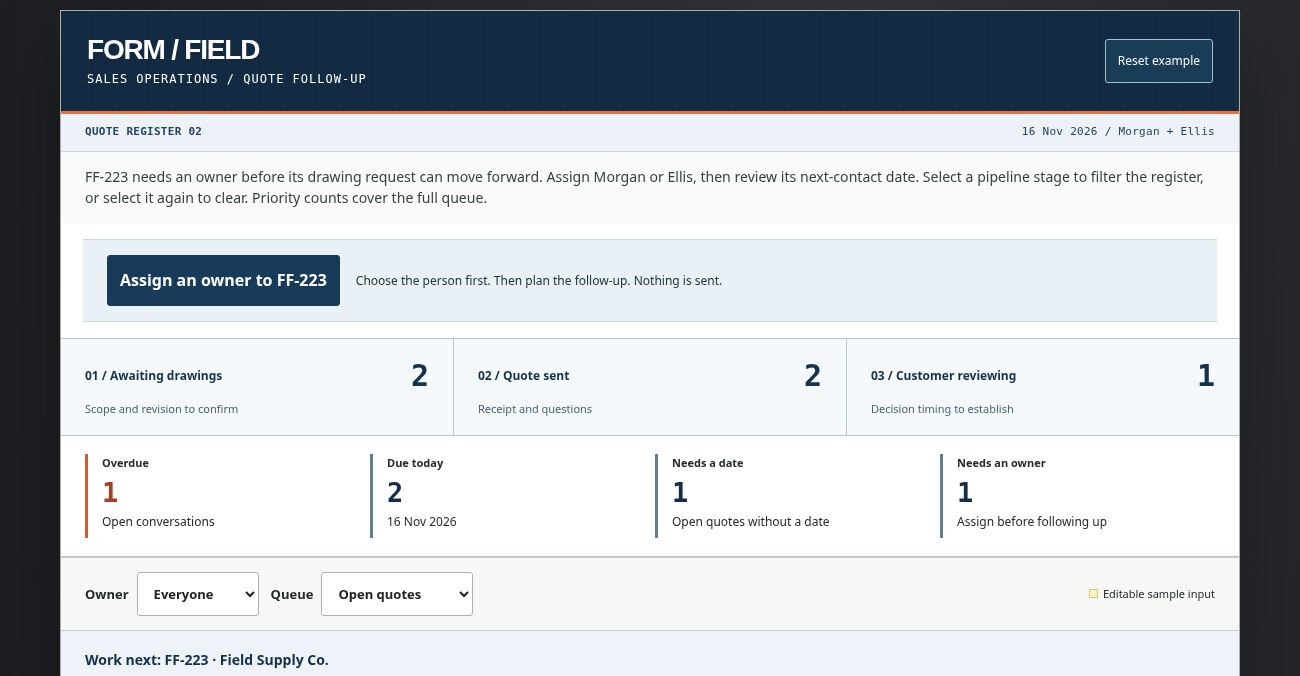
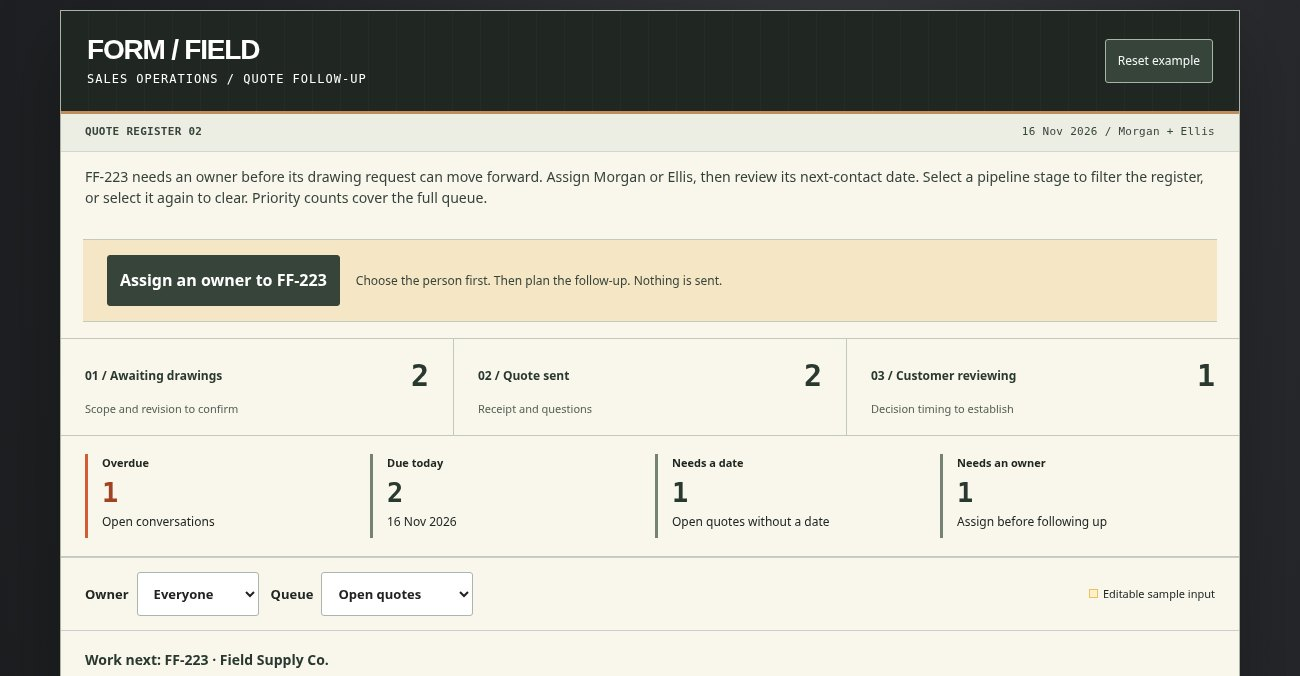
Match the public Form / Field worksheet to its workbook palette

diff --git a/portfolio/projects/customer-follow-up/index.html b/portfolio/projects/customer-follow-up/index.html
@@ -70,9 +70,9 @@ footer{border-top-color:#b79a6240;color:#aaa396;font-size:.72rem;padding-top:20p
 
 
 /* Purpose-built worksheet demonstration. Browser-only, no connected account. */
-main{display:block;max-width:1240px;padding-top:44px}main>section{max-width:none}.project-intro{display:grid;grid-template-columns:1fr 1fr;gap:48px;align-items:end;margin-bottom:35px}.project-intro h1{margin-bottom:12px}.project-intro p{max-width:49ch}.project-intro .note{margin-top:6px}.paired-detail-link{display:inline-flex;min-height:44px;align-items:center;margin-right:16px}.demo-workspace{color:#252a2c;background:#fff;border:1px solid #c7c7bf;border-radius:0;overflow:hidden;box-shadow:0 28px 60px #0005}.demo-workspace *{box-sizing:border-box}.demo-workspace p{color:inherit}.demo-brand{padding:22px 26px;display:flex;justify-content:space-between;gap:20px;align-items:center}.demo-brand h2{margin:0;font:600 28px/1.2 Georgia,serif}.demo-brand p{margin:3px 0 0;font-size:12px}.demo-workspace button,.demo-workspace select{font:inherit;min-height:44px;border:1px solid #a6aaa5;border-radius:3px;background:#fff;color:#222;padding:8px 12px}.demo-workspace button{cursor:pointer}.demo-workspace button:hover{background:#eee}.demo-workspace :focus-visible{outline:3px solid #266dd3;outline-offset:2px}.demo-workspace .demo-controls{display:flex;align-items:center;gap:12px;flex-wrap:wrap;padding:14px 24px;border-block:1px solid #ccc;background:#f7f8f5}.demo-controls label{font-size:13px;font-weight:650;display:flex;align-items:center;gap:8px}.demo-explainer{font-size:13px;line-height:1.5;padding:14px 24px;margin:0;background:#fafafa}.sheet-scroll{overflow:auto;max-width:100%;padding-bottom:2px}.sheet-scroll:focus-visible{outline-offset:-3px}.sheet-grid{width:100%;border-collapse:collapse;font:13px/1.4 Arial,sans-serif;min-width:700px}.sheet-grid th,.sheet-grid td{padding:12px;border:1px solid #dee1db;text-align:left;white-space:nowrap}.sheet-grid thead th{font-weight:700}.sheet-grid .col-letters th{padding:4px 12px;font-size:11px;background:#f2f4f2;color:#68716c;font-weight:400;text-align:center}.sheet-grid th.row-number{background:#f2f4f2;color:#68716c;font-size:11px;text-align:center;width:35px;font-weight:400}.sheet-grid select{max-width:180px;width:100%;font-size:12px}.sheet-tabs{display:flex;gap:20px;align-items:center;padding:13px 24px;background:#f2f4f2;font-size:12px;border-top:1px solid #ccd2ca}.sheet-tabs strong{padding-bottom:5px;border-bottom:3px solid currentColor}.sheet-tabs span{color:#66706a}.demo-summary{padding:20px 24px}.demo-summary h3{margin:0 0 6px;font-size:15px}.demo-summary output{display:block;font-size:30px;font-weight:700;line-height:1.1}.demo-summary p{font-size:12px;margin:6px 0}.demo-feedback{min-height:42px;padding:10px 24px;margin:0;font-size:12px;background:#f5f5f1}.handoff-box{margin:15px 0}.demo-caption{font-size:12px;color:#bbb;margin-top:12px!important}.demo-key{font-size:11px;margin-left:auto}.demo-key b{display:inline-block;width:9px;height:9px;background:#fff0c9;border:1px solid #e6c464;margin-right:5px}.input-cell{background:#fff9e9}.demo-actions{display:flex;gap:12px;align-items:center;flex-wrap:wrap;margin-top:24px}.demo-actions .note{flex:1 1 280px}@media(max-width:760px){main{padding-top:28px}.project-intro{display:block;margin-bottom:24px}.project-intro h1{font-size:2.8rem}.project-intro>div+div{margin-top:17px}.demo-brand{padding:18px 16px;align-items:flex-start}.demo-brand h2{font-size:23px}.demo-brand button{font-size:12px}.demo-controls,.demo-workspace .demo-controls{padding:12px 16px}.demo-explainer,.demo-summary,.demo-feedback{padding-left:16px;padding-right:16px}.sheet-tabs{padding:12px 16px}.demo-key{margin-left:0}.demo-summary output{font-size:25px}.sheet-grid{min-width:675px}.demo-caption{line-height:1.6}}
+main{display:block;max-width:1240px;padding-top:44px}main>section{max-width:none}.project-intro{display:grid;grid-template-columns:1fr 1fr;gap:48px;align-items:end;margin-bottom:35px}.project-intro h1{margin-bottom:12px}.project-intro p{max-width:49ch}.project-intro .note{margin-top:6px}.paired-detail-link{display:inline-flex;min-height:44px;align-items:center;margin-right:16px}.demo-workspace{color:#252a2c;background:#fff;border:1px solid #c7c7bf;border-radius:0;overflow:hidden;box-shadow:0 28px 60px #0005}.demo-workspace *{box-sizing:border-box}.demo-workspace p{color:inherit}.demo-brand{padding:22px 26px;display:flex;justify-content:space-between;gap:20px;align-items:center}.demo-brand h2{margin:0;font:600 28px/1.2 Georgia,serif}.demo-brand p{margin:3px 0 0;font-size:12px}.demo-workspace button,.demo-workspace select{font:inherit;min-height:44px;border:1px solid #a6aaa5;border-radius:3px;background:#fff;color:#222;padding:8px 12px}.demo-workspace button{cursor:pointer}.demo-workspace button:hover{background:#eee}.demo-workspace :focus-visible{outline:3px solid #755234;outline-offset:2px}.demo-workspace .demo-controls{display:flex;align-items:center;gap:12px;flex-wrap:wrap;padding:14px 24px;border-block:1px solid #ccc;background:#f7f8f5}.demo-controls label{font-size:13px;font-weight:650;display:flex;align-items:center;gap:8px}.demo-explainer{font-size:13px;line-height:1.5;padding:14px 24px;margin:0;background:#fafafa}.sheet-scroll{overflow:auto;max-width:100%;padding-bottom:2px}.sheet-scroll:focus-visible{outline-offset:-3px}.sheet-grid{width:100%;border-collapse:collapse;font:13px/1.4 Arial,sans-serif;min-width:700px}.sheet-grid th,.sheet-grid td{padding:12px;border:1px solid #dee1db;text-align:left;white-space:nowrap}.sheet-grid thead th{font-weight:700}.sheet-grid .col-letters th{padding:4px 12px;font-size:11px;background:#f2f4f2;color:#68716c;font-weight:400;text-align:center}.sheet-grid th.row-number{background:#f2f4f2;color:#68716c;font-size:11px;text-align:center;width:35px;font-weight:400}.sheet-grid select{max-width:180px;width:100%;font-size:12px}.sheet-tabs{display:flex;gap:20px;align-items:center;padding:13px 24px;background:#f2f4f2;font-size:12px;border-top:1px solid #ccd2ca}.sheet-tabs strong{padding-bottom:5px;border-bottom:3px solid currentColor}.sheet-tabs span{color:#66706a}.demo-summary{padding:20px 24px}.demo-summary h3{margin:0 0 6px;font-size:15px}.demo-summary output{display:block;font-size:30px;font-weight:700;line-height:1.1}.demo-summary p{font-size:12px;margin:6px 0}.demo-feedback{min-height:42px;padding:10px 24px;margin:0;font-size:12px;background:#f5f5f1}.handoff-box{margin:15px 0}.demo-caption{font-size:12px;color:#bbb;margin-top:12px!important}.demo-key{font-size:11px;margin-left:auto}.demo-key b{display:inline-block;width:9px;height:9px;background:#fff0c9;border:1px solid #e6c464;margin-right:5px}.input-cell{background:#fff9e9}.demo-actions{display:flex;gap:12px;align-items:center;flex-wrap:wrap;margin-top:24px}.demo-actions .note{flex:1 1 280px}@media(max-width:760px){main{padding-top:28px}.project-intro{display:block;margin-bottom:24px}.project-intro h1{font-size:2.8rem}.project-intro>div+div{margin-top:17px}.demo-brand{padding:18px 16px;align-items:flex-start}.demo-brand h2{font-size:23px}.demo-brand button{font-size:12px}.demo-controls,.demo-workspace .demo-controls{padding:12px 16px}.demo-explainer,.demo-summary,.demo-feedback{padding-left:16px;padding-right:16px}.sheet-tabs{padding:12px 16px}.demo-key{margin-left:0}.demo-summary output{font-size:25px}.sheet-grid{min-width:675px}.demo-caption{line-height:1.6}}
 
-.quote-desk .demo-brand{background:#132b42;color:#fff;border-left:9px solid #ea713f}.quote-desk .demo-brand h2{font-family:Arial,sans-serif;font-weight:800;letter-spacing:-1px}.quote-desk .demo-brand p{font-family:monospace;letter-spacing:1px}.quote-desk .demo-summary{display:grid;grid-template-columns:repeat(3,1fr);gap:20px;background:#eaf1f7;border-bottom:1px solid #bbc9d7}.quote-desk .demo-summary>div{border-left:3px solid #647d94;padding-left:14px}.quote-desk .demo-summary output{font-family:monospace;color:#152f4b}.quote-desk .demo-summary>div:first-child{border-color:#d25c35}.quote-desk .demo-summary>div:first-child output{color:#a24225}.quote-desk .sheet-grid thead tr:last-child{background:#dbe6ef;color:#15314c}.quote-desk .sheet-grid{font-family:'Courier New',monospace;font-size:12px}.quote-desk .sheet-grid tbody tr.needs-action td:first-of-type{border-left:4px solid #dc7545}.quote-desk .sheet-tabs{color:#1b486f}.quote-desk .timeline-note{display:flex;gap:24px;padding:20px 24px;align-items:center;border-top:1px solid #c6d0d9;background:#f0f5fa}.quote-desk .timeline-note strong{color:#123a5c;font:700 13px monospace}.quote-desk .timeline-note p{font-size:13px;margin:0}.quote-desk .due-late{color:#9a3c22;font-weight:700}.quote-desk .due-today{color:#1b567e;font-weight:700}@media(max-width:480px){.quote-desk .demo-summary{gap:8px;padding:16px 12px}.quote-desk .demo-summary h3{font-size:12px}.quote-desk .demo-summary>div{padding-left:8px}.quote-desk .demo-summary p{font-size:10px}.quote-desk .timeline-note{display:block;padding:16px}.quote-desk .timeline-note strong{display:block;margin-bottom:6px}}
+.quote-desk .demo-brand{background:#202723;color:#fff;border-left:9px solid #c18c5b}.quote-desk .demo-brand h2{font-family:Arial,sans-serif;font-weight:800;letter-spacing:-1px}.quote-desk .demo-brand p{font-family:monospace;letter-spacing:1px}.quote-desk .demo-summary{display:grid;grid-template-columns:repeat(3,1fr);gap:20px;background:#eceee4;border-bottom:1px solid #c4caba}.quote-desk .demo-summary>div{border-left:3px solid #758374;padding-left:14px}.quote-desk .demo-summary output{font-family:monospace;color:#29392f}.quote-desk .demo-summary>div:first-child{border-color:#d25c35}.quote-desk .demo-summary>div:first-child output{color:#a24225}.quote-desk .sheet-grid thead tr:last-child{background:#e0e5dc;color:#29392f}.quote-desk .sheet-grid{font-family:'Courier New',monospace;font-size:12px}.quote-desk .sheet-grid tbody tr.needs-action td:first-of-type{border-left:4px solid #c18c5b}.quote-desk .sheet-tabs{color:#37443a}.quote-desk .timeline-note{display:flex;gap:24px;padding:20px 24px;align-items:center;border-top:1px solid #c4caba;background:#f9f6ec}.quote-desk .timeline-note strong{color:#37443a;font:700 13px monospace}.quote-desk .timeline-note p{font-size:13px;margin:0}.quote-desk .due-late{color:#9a3c22;font-weight:700}.quote-desk .due-today{color:#475b4b;font-weight:700}@media(max-width:480px){.quote-desk .demo-summary{gap:8px;padding:16px 12px}.quote-desk .demo-summary h3{font-size:12px}.quote-desk .demo-summary>div{padding-left:8px}.quote-desk .demo-summary p{font-size:10px}.quote-desk .timeline-note{display:block;padding:16px}.quote-desk .timeline-note strong{display:block;margin-bottom:6px}}
 
 /* V43 follow-on: decisions from editable sample records, not a live workbook. */
 .demo-workspace{color-scheme:light}
@@ -86,7 +86,7 @@ main{display:block;max-width:1240px;padding-top:44px}main>section{max-width:none
 .demo-workspace .queue-next p{margin:3px 0 0;font-size:13px;line-height:1.5}
 .demo-workspace .queue-next strong{font-size:14px}
 .demo-workspace .status-blocked{background:#fff0e6;color:#8b3824}
-.demo-workspace .row-link{border:0;background:transparent;color:#204a68;padding:4px 0;text-decoration:underline;text-underline-offset:3px;font-weight:700;min-height:44px;text-align:left}
+.demo-workspace .row-link{border:0;background:transparent;color:#475b4b;padding:4px 0;text-decoration:underline;text-underline-offset:3px;font-weight:700;min-height:44px;text-align:left}
 .demo-workspace .rule-details{padding:13px 24px;border-top:1px solid #ccd2ca;background:#f6f7f4;font-size:12px}
 .demo-workspace .rule-details summary{cursor:pointer;font-weight:700;min-height:30px;display:list-item}
 .demo-workspace .rule-details p{margin:10px 0 2px;max-width:85ch}
@@ -96,14 +96,14 @@ main{display:block;max-width:1240px;padding-top:44px}main>section{max-width:none
 .quote-desk .demo-summary{grid-template-columns:repeat(4,minmax(0,1fr))}
 .quote-desk .sheet-grid{min-width:1040px}.quote-desk .sheet-grid input[type=date]{width:150px;font:12px Arial,sans-serif}.quote-desk .sheet-grid select{max-width:180px;font:12px Arial,sans-serif}
 .quote-desk .sheet-grid th:nth-child(2){min-width:170px}.quote-desk .sheet-grid td:nth-child(3){min-width:170px;white-space:normal}
-.quote-desk .sheet-grid tr.suppressed{background:#f1f2f2;color:#545c62}.quote-desk .due-missing{color:#8b3824;font-weight:700}
-.quote-desk .queue-next{background:#edf3f8;border-color:#c6d0d9}.quote-desk .queue-next strong{color:#15314c}
+.quote-desk .sheet-grid tr.suppressed{background:#f1f2f2;color:#545c54}.quote-desk .due-missing{color:#8b3824;font-weight:700}
+.quote-desk .queue-next{background:#f9f6ec;border-color:#c4caba}.quote-desk .queue-next strong{color:#29392f}
 .quote-desk .demo-summary h3{font-size:13px}
 @media(max-width:480px){.quote-desk .demo-summary{grid-template-columns:repeat(2,minmax(0,1fr));gap:18px}.quote-desk .demo-summary p{font-size:11px}}
 
 /* Project scope: short, evidence-based exhibit notes. */
 main>.project-scope{grid-column:1/-1;max-width:none;width:100%;border-top:1px solid #b79a6266;padding-top:30px;display:grid;grid-template-columns:repeat(3,minmax(0,1fr));gap:clamp(20px,3vw,36px);align-items:start}.project-scope article{min-width:0}.project-scope h2{font:600 1.2rem/1.3 Georgia,serif;color:var(--ink);margin:0 0 12px}.project-scope p,.project-scope li{font-size:.92rem;line-height:1.7;color:var(--muted)}.project-scope p{margin:0}.project-scope ul{margin:0;padding-left:1.1rem}.project-scope li+li{margin-top:5px}@media(max-width:760px){main>.project-scope{grid-template-columns:1fr;gap:25px;padding-top:25px}}
-</style><style id="worksheet-readable-instructions">main>.demo-workspace>p.demo-explainer,main>.demo-workspace>p.demo-feedback,main>.workbook>p.demo-feedback{color:#35423b;max-width:none;margin:0;font-size:.88rem;line-height:1.55}#book-title,#demo-title{scroll-margin-top:24px}</style><style>.quote-start{margin:16px 22px;padding:14px 0;border-block:1px solid #94a6a9;display:flex;gap:18px;align-items:center;color:#20373d}.quote-start button{min-height:44px;padding:12px;border:1px solid #20373d;background:#e9f1ee;color:#20373d;font-weight:700;cursor:pointer}.quote-start span{font:14px/1.5 monospace}@media(max-width:650px){.quote-start{display:grid;margin:14px}.quote-start button{justify-self:start}}</style><style>.summary-return{display:inline-flex;align-items:center;min-height:44px;text-decoration:underline;text-underline-offset:4px;color:inherit;margin:8px 20px}#worksheet-summary{scroll-margin-top:24px}</style><style id="v62-workflow-finish">
+</style><style id="worksheet-readable-instructions">main>.demo-workspace>p.demo-explainer,main>.demo-workspace>p.demo-feedback,main>.workbook>p.demo-feedback{color:#35423b;max-width:none;margin:0;font-size:.88rem;line-height:1.55}#book-title,#demo-title{scroll-margin-top:24px}</style><style>.quote-start{margin:16px 22px;padding:14px 0;border-block:1px solid #aab4a6;display:flex;gap:18px;align-items:center;color:#37443a}.quote-start button{min-height:44px;padding:12px;border:1px solid #37443a;background:#eceee4;color:#37443a;font-weight:700;cursor:pointer}.quote-start span{font:14px/1.5 monospace}@media(max-width:650px){.quote-start{display:grid;margin:14px}.quote-start button{justify-self:start}}</style><style>.summary-return{display:inline-flex;align-items:center;min-height:44px;text-decoration:underline;text-underline-offset:4px;color:inherit;margin:8px 20px}#worksheet-summary{scroll-margin-top:24px}</style><style id="v62-workflow-finish">
 .demo-workspace,.workbook{box-shadow:0 28px 70px #0004;border-color:#acafa9}
 .demo-brand,.book-head{min-height:100px}.demo-brand p,.book-head p{line-height:1.6}
 .demo-workspace button,.workbook button{transition:background .12s,border-color .12s}
@@ -133,14 +133,23 @@ main>.project-scope{grid-column:1/-1;max-width:none;width:100%;border-top:1px so
 .demo-workspace .sheet-grid td[colspan]{grid-column:1/-1}
 }
 
-.quote-desk .demo-brand{background:#132b42;border-left:0;border-bottom:3px solid #ea713f;background-image:linear-gradient(90deg,transparent 96%,#ffffff06 96%);background-size:28px 28px}.quote-desk .demo-brand h2{letter-spacing:-1.2px}.quote-desk .workspace-context{background:#ecf2f7;color:#25445e}
-.quote-desk .pipeline{display:grid;grid-template-columns:repeat(3,minmax(0,1fr));gap:1px;background:#b5c5d2;border-block:1px solid #b5c5d2}.quote-desk .pipeline button{display:grid;grid-template-columns:1fr auto;align-items:center;gap:8px;border:0;border-radius:0;background:#f6f9fb;padding:19px 24px;text-align:left;color:#15334c;min-width:0}.quote-desk .pipeline button span{font:650 12px/1.45 system-ui,sans-serif}.quote-desk .pipeline button output{font:600 30px ui-monospace,monospace}.quote-desk .pipeline button[aria-pressed=true]{background:#173b58;color:#fff;box-shadow:inset 0 -4px #ee8d63}.quote-desk .pipeline button:hover{background:#dae7f1;color:#18384f}.quote-desk .pipeline button small{grid-column:1/-1;font:11px/1.4 system-ui,sans-serif;opacity:.8}.quote-desk .demo-summary{background:#fff;gap:10px;padding-block:18px}.quote-desk .demo-summary output{font-size:27px}.quote-desk .demo-summary h3{font-size:11px}.quote-desk .quote-start{border-block:1px solid #cad7e0;background:#eaf1f6;padding:15px 24px;display:flex;align-items:center;gap:16px}.quote-desk .quote-start button{background:#173b58;color:white;border-color:#173b58}.quote-desk .quote-start span{font:12px/1.5 system-ui,sans-serif}.quote-desk .timeline-note{background:#e8eff5}.quote-desk .sheet-grid tbody td{line-height:1.55}
-@media(max-width:650px){.quote-desk .pipeline{grid-template-columns:1fr}.quote-desk .pipeline button{padding:13px 16px;grid-template-columns:1fr auto}.quote-desk .pipeline button small{grid-column:1;grid-row:2}.quote-desk .pipeline button output{grid-column:2;grid-row:1/3;font-size:28px}.quote-desk .demo-summary{grid-template-columns:repeat(2,minmax(0,1fr));gap:18px}.quote-desk .quote-start{display:block;padding:15px 16px}.quote-desk .quote-start button{width:100%;margin-bottom:9px}.quote-desk .quote-start span{display:block}.quote-desk .sheet-scroll{background:#eaf0f4}.quote-desk .sheet-grid tbody tr{border-color:#bdcddb}.quote-desk .sheet-grid tbody th[scope=row]{background:#173b58;color:#fff}.quote-desk .sheet-grid tbody th[scope=row] .cell-note{color:#e8f0f5}.quote-desk .sheet-grid td:nth-child(3){grid-column:1/-1}.quote-desk .sheet-grid td:nth-child(6){grid-column:1/-1}.quote-desk .sheet-grid tbody tr.suppressed{opacity:.8}}
-.quote-desk .demo-brand #reset-demo{color:#f5f8fb;border-color:#a4bdd0;background:#193c57}.quote-desk .demo-brand #reset-demo:hover{color:#fff;background:#29506d}.quote-desk .demo-brand #reset-demo:focus-visible{outline:3px solid #fff;outline-offset:3px}.tool-boundary{font-size:12px!important;line-height:1.6;color:#d2c9b7!important;margin:0 0 12px!important}.tool-boundary+section{margin-top:0}</style></head><body>
+.quote-desk .demo-brand{background:#202723;border-left:0;border-bottom:3px solid #c18c5b;background-image:linear-gradient(90deg,transparent 96%,#ffffff06 96%);background-size:28px 28px}.quote-desk .demo-brand h2{letter-spacing:-1.2px}.quote-desk .workspace-context{background:#eceee4;color:#37443a}
+.quote-desk .pipeline{display:grid;grid-template-columns:repeat(3,minmax(0,1fr));gap:1px;background:#c4caba;border-block:1px solid #c4caba}.quote-desk .pipeline button{display:grid;grid-template-columns:1fr auto;align-items:center;gap:8px;border:0;border-radius:0;background:#f9f6ec;padding:19px 24px;text-align:left;color:#29392f;min-width:0}.quote-desk .pipeline button span{font:650 12px/1.45 system-ui,sans-serif}.quote-desk .pipeline button output{font:600 30px ui-monospace,monospace}.quote-desk .pipeline button[aria-pressed=true]{background:#37443a;color:#fff;box-shadow:inset 0 -4px #c18c5b}.quote-desk .pipeline button:hover{background:#e0e5dc;color:#29392f}.quote-desk .pipeline button small{grid-column:1/-1;font:11px/1.4 system-ui,sans-serif;opacity:.8}.quote-desk .demo-summary{background:#fff;gap:10px;padding-block:18px}.quote-desk .demo-summary output{font-size:27px}.quote-desk .demo-summary h3{font-size:11px}.quote-desk .quote-start{border-block:1px solid #c4caba;background:#f5e6c6;padding:15px 24px;display:flex;align-items:center;gap:16px}.quote-desk .quote-start button{background:#37443a;color:white;border-color:#37443a}.quote-desk .quote-start span{font:12px/1.5 system-ui,sans-serif}.quote-desk .timeline-note{background:#f9f6ec}.quote-desk .sheet-grid tbody td{line-height:1.55}
+@media(max-width:650px){.quote-desk .pipeline{grid-template-columns:1fr}.quote-desk .pipeline button{padding:13px 16px;grid-template-columns:1fr auto}.quote-desk .pipeline button small{grid-column:1;grid-row:2}.quote-desk .pipeline button output{grid-column:2;grid-row:1/3;font-size:28px}.quote-desk .demo-summary{grid-template-columns:repeat(2,minmax(0,1fr));gap:18px}.quote-desk .quote-start{display:block;padding:15px 16px}.quote-desk .quote-start button{width:100%;margin-bottom:9px}.quote-desk .quote-start span{display:block}.quote-desk .sheet-scroll{background:#eceee4}.quote-desk .sheet-grid tbody tr{border-color:#c4caba}.quote-desk .sheet-grid tbody th[scope=row]{background:#37443a;color:#fff}.quote-desk .sheet-grid tbody th[scope=row] .cell-note{color:#eceee4}.quote-desk .sheet-grid td:nth-child(3){grid-column:1/-1}.quote-desk .sheet-grid td:nth-child(6){grid-column:1/-1}.quote-desk .sheet-grid tbody tr.suppressed{opacity:.8}}
+.quote-desk .demo-brand #reset-demo{color:#f5f8fb;border-color:#aab4a6;background:#37443a}.quote-desk .demo-brand #reset-demo:hover{color:#fff;background:#37443a}.quote-desk .demo-brand #reset-demo:focus-visible{outline:3px solid #fff;outline-offset:3px}.tool-boundary{font-size:12px!important;line-height:1.6;color:#d2c9b7!important;margin:0 0 12px!important}.tool-boundary+section{margin-top:0}</style><style id="form-field-workbook-palette">
+/* Match the branded companion workbook without changing the example workflow. */
+.quote-desk.demo-workspace{background:#f9f6ec;color:#202723;border-color:#aab4a6}
+.quote-desk .demo-summary,.quote-desk .demo-controls,.quote-desk .demo-explainer,.quote-desk .sheet-tabs{background:#f9f6ec}
+.quote-desk .sheet-grid .col-letters th,.quote-desk .sheet-grid .row-number,.quote-desk .rule-details{background:#eceee4;color:#37443a}
+.quote-desk .sheet-grid td,.quote-desk .sheet-grid th{border-color:#d7d9cd}
+.quote-desk .sheet-grid input:not(:disabled),.quote-desk .sheet-grid select:not(:disabled){background:#f5e6c6;color:#202723;border-color:#a99a76}
+.quote-desk .pipeline button[aria-pressed=true]:hover{background:#37443a;color:#fff}
+.quote-desk .demo-brand #reset-demo:hover{background:#37443a;color:#fff}
+</style></head><body>
[1 lines of base64/hex data omitted]
 <main aria-labelledby="title"><div class="project-intro"><div><p class="kicker">Quote follow-up tracker</p><h1 id="title">Form / Field</h1><p class="lead">Every open quote has a next move.</p></div><div><p>A follow-up worksheet for a fabrication team. Assign an owner, set the next date, and separate missing drawings from quotes awaiting a decision. Closed and no-contact records stay out of the queue.</p><a class="paired-detail-link" href="../../precision-fabrication/">Try the matching website demo&nbsp; </a></div></div>
 <aside class="handoff-box" id="handoff-preview" hidden aria-labelledby="handoff-title"><h2 id="handoff-title">Website inquiry handoff</h2><dl><div><dt>Process</dt><dd id="handoff-value"></dd></div><div><dt>Handoff</dt><dd>Process only</dd></div></dl><p class="status">Only the selected process crosses from the website. Drawings and checklist answers are not transferred, and the sample register below is unchanged. No record was written to Google Sheets.</p></aside>
-<p class="tool-boundary">Interactive example. Edits stay in this page and reset on reload.</p><section class="demo-workspace quote-desk" aria-labelledby="demo-title"><div class="demo-brand"><div><h2 id="demo-title">FORM / FIELD</h2><p>SALES OPERATIONS / QUOTE FOLLOW-UP</p></div><button type="button" id="reset-demo">Reset example</button></div><div class="workspace-context"><strong>QUOTE REGISTER 02</strong><span>16 Nov 2026 / Morgan + Ellis</span></div><p class="demo-explainer">FF-223 needs an owner before its drawing request can move forward. Assign Morgan or Ellis, then review its next-contact date. Select a pipeline stage to filter the register, or select it again to clear. Priority counts cover the full queue.</p><div class="quote-start"><button type="button" id="focus-quote-owner">Assign an owner to FF-223</button><span>Choose the person first. Then plan the follow-up. Nothing is sent.</span></div><div class="pipeline" aria-label="Filter open quotes by stage"><button type="button" data-pipeline="Awaiting drawings" aria-pressed="false"><span>01 / Awaiting drawings</span><output id="pipeline-drawings">0</output><small>Scope and revision to confirm</small></button><button type="button" data-pipeline="Quote sent" aria-pressed="false"><span>02 / Quote sent</span><output id="pipeline-sent">0</output><small>Receipt and questions</small></button><button type="button" data-pipeline="Customer reviewing" aria-pressed="false"><span>03 / Customer reviewing</span><output id="pipeline-review">0</output><small>Decision timing to establish</small></button></div><div class="demo-summary" id="worksheet-summary" aria-live="polite"><div><h3>Overdue</h3><output id="overdue-count">0</output><p>Open conversations</p></div><div><h3>Due today</h3><output id="today-count">0</output><p>16 Nov 2026</p></div><div><h3>Needs a date</h3><output id="undated-count">0</output><p>Open quotes without a date</p></div><div><h3>Needs an owner</h3><output id="unassigned-count">0</output><p>Assign before following up</p></div></div><div class="demo-controls"><label>Owner <select id="owner-filter"><option value="all">Everyone</option><option value="Morgan">Morgan</option><option value="Ellis">Ellis</option><option value="">Unassigned</option></select></label><label>Queue <select id="queue-filter"><option value="open">Open quotes</option><option value="attention">Needs attention</option><option value="all">All quotes</option></select></label><span class="demo-key"><b></b>Editable sample input</span></div><div class="queue-next"><div><strong id="next-quote-title"></strong><p id="next-quote-reason"></p></div></div><div class="sheet-scroll" tabindex="0" role="region" aria-label="Quote register. Editable record cards on phones; worksheet columns on larger screens."><table class="sheet-grid"><thead><tr class="col-letters"><th></th><th>A</th><th>B</th><th>C</th><th>D</th><th>E</th><th>F</th></tr><tr><th class="row-number">1</th><th scope="col">Quote</th><th scope="col">Job / process</th><th scope="col">Owner</th><th scope="col">Next contact</th><th scope="col">Status</th><th scope="col">Action</th></tr></thead><tbody id="quote-rows"></tbody></table></div><div class="timeline-note"><strong>QUEUE RULE</strong><p id="quote-summary"></p></div><details class="rule-details"><summary>How the sample follow-up rule works</summary><p>Open records need both an owner and a next-contact date. Unassigned work comes first, then overdue, due today, undated and upcoming. The action depends on whether drawings are missing, a quote was sent or the customer is reviewing it. Won and lost quotes leave the open queue. The example no-contact record is locked out of follow-ups, even if its old date is overdue. Changing a date only plans work; it does not send a message or record a completed conversation. Counts include all owners and may overlap. The three pipeline counts include only open records. Select a pipeline stage again to clear its filter.</p></details><div class="sheet-tabs"><strong>Follow-up queue</strong><span>As of 16 Nov 2026</span></div><p class="demo-feedback" id="demo-feedback" role="status">Change a sample input to see the next action update. No reminders or messages are sent. Reloading resets the example.</p><a class="summary-return" href="#worksheet-summary">Review the updated summary</a></section><p class="demo-caption">Interactive browser model of spreadsheet logic. Example data, no Google Sheets connection, emails, or live customer records.</p><div class="demo-actions"><a class="cta" href="../../../#contact">Discuss a similar tool</a><p class="note">The illustrated workbook remains available below. This browser model is not the native workbook.</p></div><details><summary>View the original workbook illustration</summary><figure><img src="../../showcase/customer-follow-up.jpg?v=20261125-capture" width="1300" height="676" alt="Form / Field worksheet demo screenshot"><figcaption>Actual desktop capture of the example worksheet demo. This is not a live Google Sheet.</figcaption></figure></details>
+<p class="tool-boundary">Interactive example. Edits stay in this page and reset on reload.</p><section class="demo-workspace quote-desk" aria-labelledby="demo-title"><div class="demo-brand"><div><h2 id="demo-title">FORM / FIELD</h2><p>SALES OPERATIONS / QUOTE FOLLOW-UP</p></div><button type="button" id="reset-demo">Reset example</button></div><div class="workspace-context"><strong>QUOTE REGISTER 02</strong><span>16 Nov 2026 / Morgan + Ellis</span></div><p class="demo-explainer">FF-223 needs an owner before its drawing request can move forward. Assign Morgan or Ellis, then review its next-contact date. Select a pipeline stage to filter the register, or select it again to clear. Priority counts cover the full queue.</p><div class="quote-start"><button type="button" id="focus-quote-owner">Assign an owner to FF-223</button><span>Choose the person first. Then plan the follow-up. Nothing is sent.</span></div><div class="pipeline" aria-label="Filter open quotes by stage"><button type="button" data-pipeline="Awaiting drawings" aria-pressed="false"><span>01 / Awaiting drawings</span><output id="pipeline-drawings">0</output><small>Scope and revision to confirm</small></button><button type="button" data-pipeline="Quote sent" aria-pressed="false"><span>02 / Quote sent</span><output id="pipeline-sent">0</output><small>Receipt and questions</small></button><button type="button" data-pipeline="Customer reviewing" aria-pressed="false"><span>03 / Customer reviewing</span><output id="pipeline-review">0</output><small>Decision timing to establish</small></button></div><div class="demo-summary" id="worksheet-summary" aria-live="polite"><div><h3>Overdue</h3><output id="overdue-count">0</output><p>Open conversations</p></div><div><h3>Due today</h3><output id="today-count">0</output><p>16 Nov 2026</p></div><div><h3>Needs a date</h3><output id="undated-count">0</output><p>Open quotes without a date</p></div><div><h3>Needs an owner</h3><output id="unassigned-count">0</output><p>Assign before following up</p></div></div><div class="demo-controls"><label>Owner <select id="owner-filter"><option value="all">Everyone</option><option value="Morgan">Morgan</option><option value="Ellis">Ellis</option><option value="">Unassigned</option></select></label><label>Queue <select id="queue-filter"><option value="open">Open quotes</option><option value="attention">Needs attention</option><option value="all">All quotes</option></select></label><span class="demo-key"><b></b>Editable sample input</span></div><div class="queue-next"><div><strong id="next-quote-title"></strong><p id="next-quote-reason"></p></div></div><div class="sheet-scroll" tabindex="0" role="region" aria-label="Quote register. Editable record cards on phones; worksheet columns on larger screens."><table class="sheet-grid"><thead><tr class="col-letters"><th></th><th>A</th><th>B</th><th>C</th><th>D</th><th>E</th><th>F</th></tr><tr><th class="row-number">1</th><th scope="col">Quote</th><th scope="col">Job / process</th><th scope="col">Owner</th><th scope="col">Next contact</th><th scope="col">Status</th><th scope="col">Action</th></tr></thead><tbody id="quote-rows"></tbody></table></div><div class="timeline-note"><strong>QUEUE RULE</strong><p id="quote-summary"></p></div><details class="rule-details"><summary>How the sample follow-up rule works</summary><p>Open records need both an owner and a next-contact date. Unassigned work comes first, then overdue, due today, undated and upcoming. The action depends on whether drawings are missing, a quote was sent or the customer is reviewing it. Won and lost quotes leave the open queue. The example no-contact record is locked out of follow-ups, even if its old date is overdue. Changing a date only plans work; it does not send a message or record a completed conversation. Counts include all owners and may overlap. The three pipeline counts include only open records. Select a pipeline stage again to clear its filter.</p></details><div class="sheet-tabs"><strong>Follow-up queue</strong><span>As of 16 Nov 2026</span></div><p class="demo-feedback" id="demo-feedback" role="status">Change a sample input to see the next action update. No reminders or messages are sent. Reloading resets the example.</p><a class="summary-return" href="#worksheet-summary">Review the updated summary</a></section><p class="demo-caption">Interactive browser model of spreadsheet logic. Example data, no Google Sheets connection, emails, or live customer records.</p><div class="demo-actions"><a class="cta" href="../../../#contact">Discuss a similar tool</a><p class="note">The illustrated workbook remains available below. This browser model is not the native workbook.</p></div><details><summary>View the original workbook illustration</summary><figure><img src="../../showcase/customer-follow-up.jpg?v=20261125-form-field-brand" width="1300" height="676" alt="Form / Field worksheet demo screenshot"><figcaption>Actual desktop capture of the example worksheet demo. This is not a live Google Sheet.</figcaption></figure></details>
 <section class="project-scope" aria-label="Project scope"><article><h2>What we did</h2><p>Built an interactive browser model of a quote-follow-up worksheet with owners, next-contact dates, status rules and a queue that excludes closed and no-contact records.</p></article><article><h2>How it helps</h2><p>Shows which sample conversations need an owner, a date or another detail. Planning a follow-up does not send a message, create a reminder or record a completed conversation.</p></article><article><h2>Demonstrated services</h2><ul><li>Custom tracker workflow design</li><li>Follow-up queue and priority logic</li><li>Spreadsheet-style validation and filtering</li><li>Illustrative quote-brief handoff</li></ul></article></section>
 </main>
 <footer>Portfolio by Rogers Holdings LLC.</footer><script>(()=>{const raw=new URLSearchParams(location.hash.slice(1)).get('quote-process');const labels={sheet:'Sheet metal',assembly:'Assembly',prototype:'Prototype'};if(!Object.hasOwn(labels,raw))return;const value=labels[raw];document.getElementById('handoff-value').textContent=value;document.getElementById('handoff-preview').hidden=false;})();</script><script data-demo-logic>(()=>{'use strict';

diff --git a/portfolio/projects/precision-fabrication/index.html b/portfolio/projects/precision-fabrication/index.html
@@ -70,7 +70,7 @@ main>.project-scope{grid-column:1/-1;max-width:none;width:100%;border-top:1px so
 </style><style id="v62-project-bridge">.project-pair{margin-top:30px}.project-workflow-proof{display:grid;grid-template-columns:1fr 1fr;gap:16px;margin:24px 0 30px}.project-workflow-proof figure{margin:0;min-width:0;background:#211d1b;border:1px solid #a887545c;border-radius:12px;overflow:hidden}.project-workflow-proof a{display:block;text-decoration:none}.project-workflow-proof a:focus-visible{outline:3px solid #efcf8e;outline-offset:-4px}.project-workflow-proof img{display:block;width:100%;height:auto;border:0;border-radius:0}.project-workflow-proof figcaption{margin:0}.project-workflow-proof figcaption a{display:flex;flex-wrap:wrap;align-items:center;min-height:44px;padding:8px 14px;line-height:1.35;color:#f3eadb;text-decoration:underline;text-underline-offset:4px}.project-workflow-proof figcaption span{color:#d9bd85;font-size:11px;text-transform:uppercase;letter-spacing:.09em;margin-right:10px;text-decoration:none}@media(max-width:650px){.project-workflow-proof{grid-template-columns:1fr;gap:11px;text-align:center}.project-workflow-proof figcaption a{justify-content:center}}</style><link rel="stylesheet" href="/assets/css/portfolio-walkthrough.css?v=2"></head><body>
[1 lines of base64/hex data omitted]
 <main aria-labelledby="title"><section><p class="kicker">Manufacturing website &amp; quote follow-up tracker</p><h1 id="title">Form / Field</h1><p class="lead">A buyer starts with a drawing, sketch, or part in hand. The shop needs a clear brief and someone responsible for the next step.</p><div class="project-demo-links" aria-label="Explore both parts of this project"><a href="../../precision-fabrication/">Explore the fabrication website demo</a><a href="../customer-follow-up/">Explore the quote follow-up spreadsheet model</a></div><p class="note">Example business · Two interactive browser demonstrations. The spreadsheet model is not a live or shared Google Sheet. Nothing is ordered, submitted or saved to an account.</p></section>
-<div class="project-workflow-proof" aria-label="Browser captures of both working examples"><figure><img src="../../showcase/fabrication-preview.jpg?v=20261125-capture" width="1300" height="676" alt="Desktop capture of the website demo"><figcaption><a href="../../precision-fabrication/"><span>01 / Website</span> Prepare a sample quote</a></figcaption></figure><figure><img src="../../showcase/customer-follow-up.jpg?v=20261125-capture" width="1300" height="676" alt="Desktop capture of the interactive worksheet model"><figcaption><a href="../customer-follow-up/"><span>02 / Worksheet</span> Open the quote follow-up sheet</a></figcaption></figure></div>
+<div class="project-workflow-proof" aria-label="Browser captures of both working examples"><figure><img src="../../showcase/fabrication-preview.jpg?v=20261125-capture" width="1300" height="676" alt="Desktop capture of the website demo"><figcaption><a href="../../precision-fabrication/"><span>01 / Website</span> Prepare a sample quote</a></figcaption></figure><figure><img src="../../showcase/customer-follow-up.jpg?v=20261125-form-field-brand" width="1300" height="676" alt="Desktop capture of the interactive worksheet model"><figcaption><a href="../customer-follow-up/"><span>02 / Worksheet</span> Open the quote follow-up sheet</a></figcaption></figure></div>
 <section class="portfolio-tour" id="walkthrough" aria-labelledby="walkthrough-title">
   <div class="portfolio-tour-copy">
     <h2 id="walkthrough-title">From part reference to quote brief</h2>

diff --git a/docs/FORM_FIELD_PUBLIC_DEMO_2026_11_25.md b/docs/FORM_FIELD_PUBLIC_DEMO_2026_11_25.md
@@ -1,3 +1,5 @@
 # Form / Field public demo refresh
 
 The Form / Field case study and Website Creation page both link to the existing first-party route, now serving the reviewed revision 24 design. The public copy mounts all navigation and assets below that route. The private Sites project, its access policy, and the private Google Sheet were not changed. The public sample tracker passes only a fixed demo process label to the existing fictional browser worksheet. No quote, input contents, sensitive data, accounts or external integration are used.
+
+The public worksheet model and both places where its screenshot appears now use the companion workbook's deep green, cream, copper and warm amber palette. The screenshot is a current browser capture. Quote-state rules, sample records, and the private workbook are unchanged.
